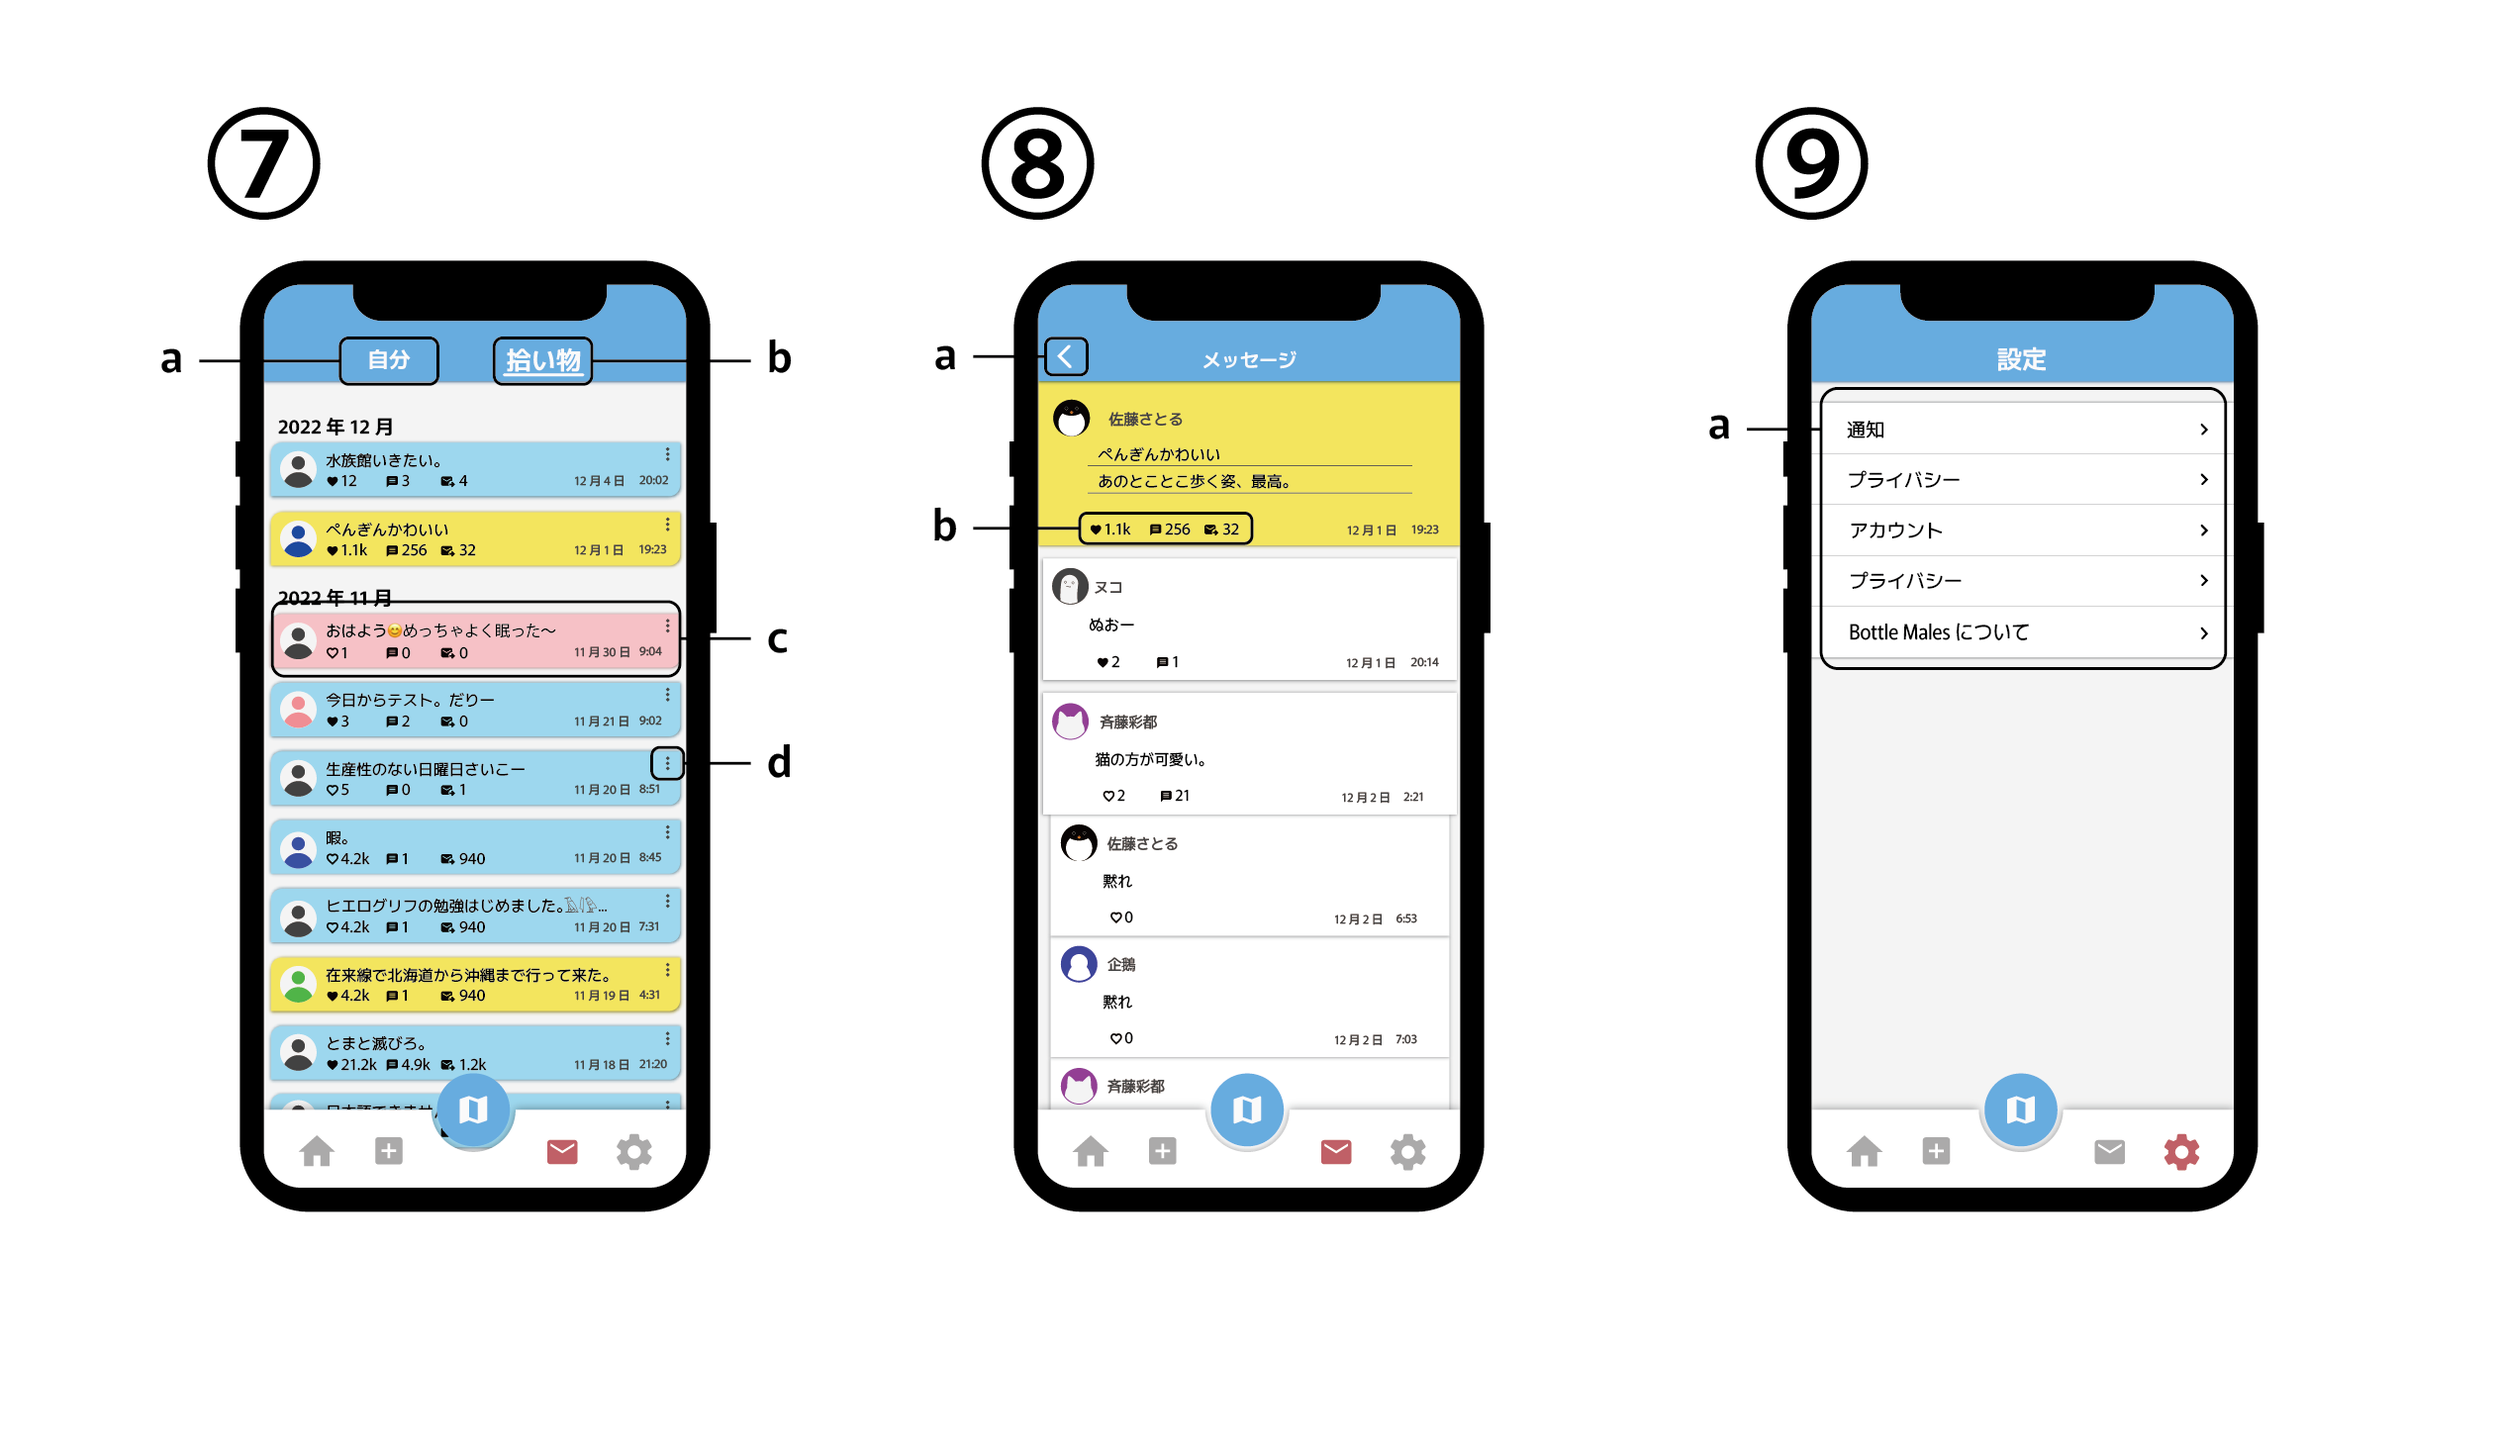
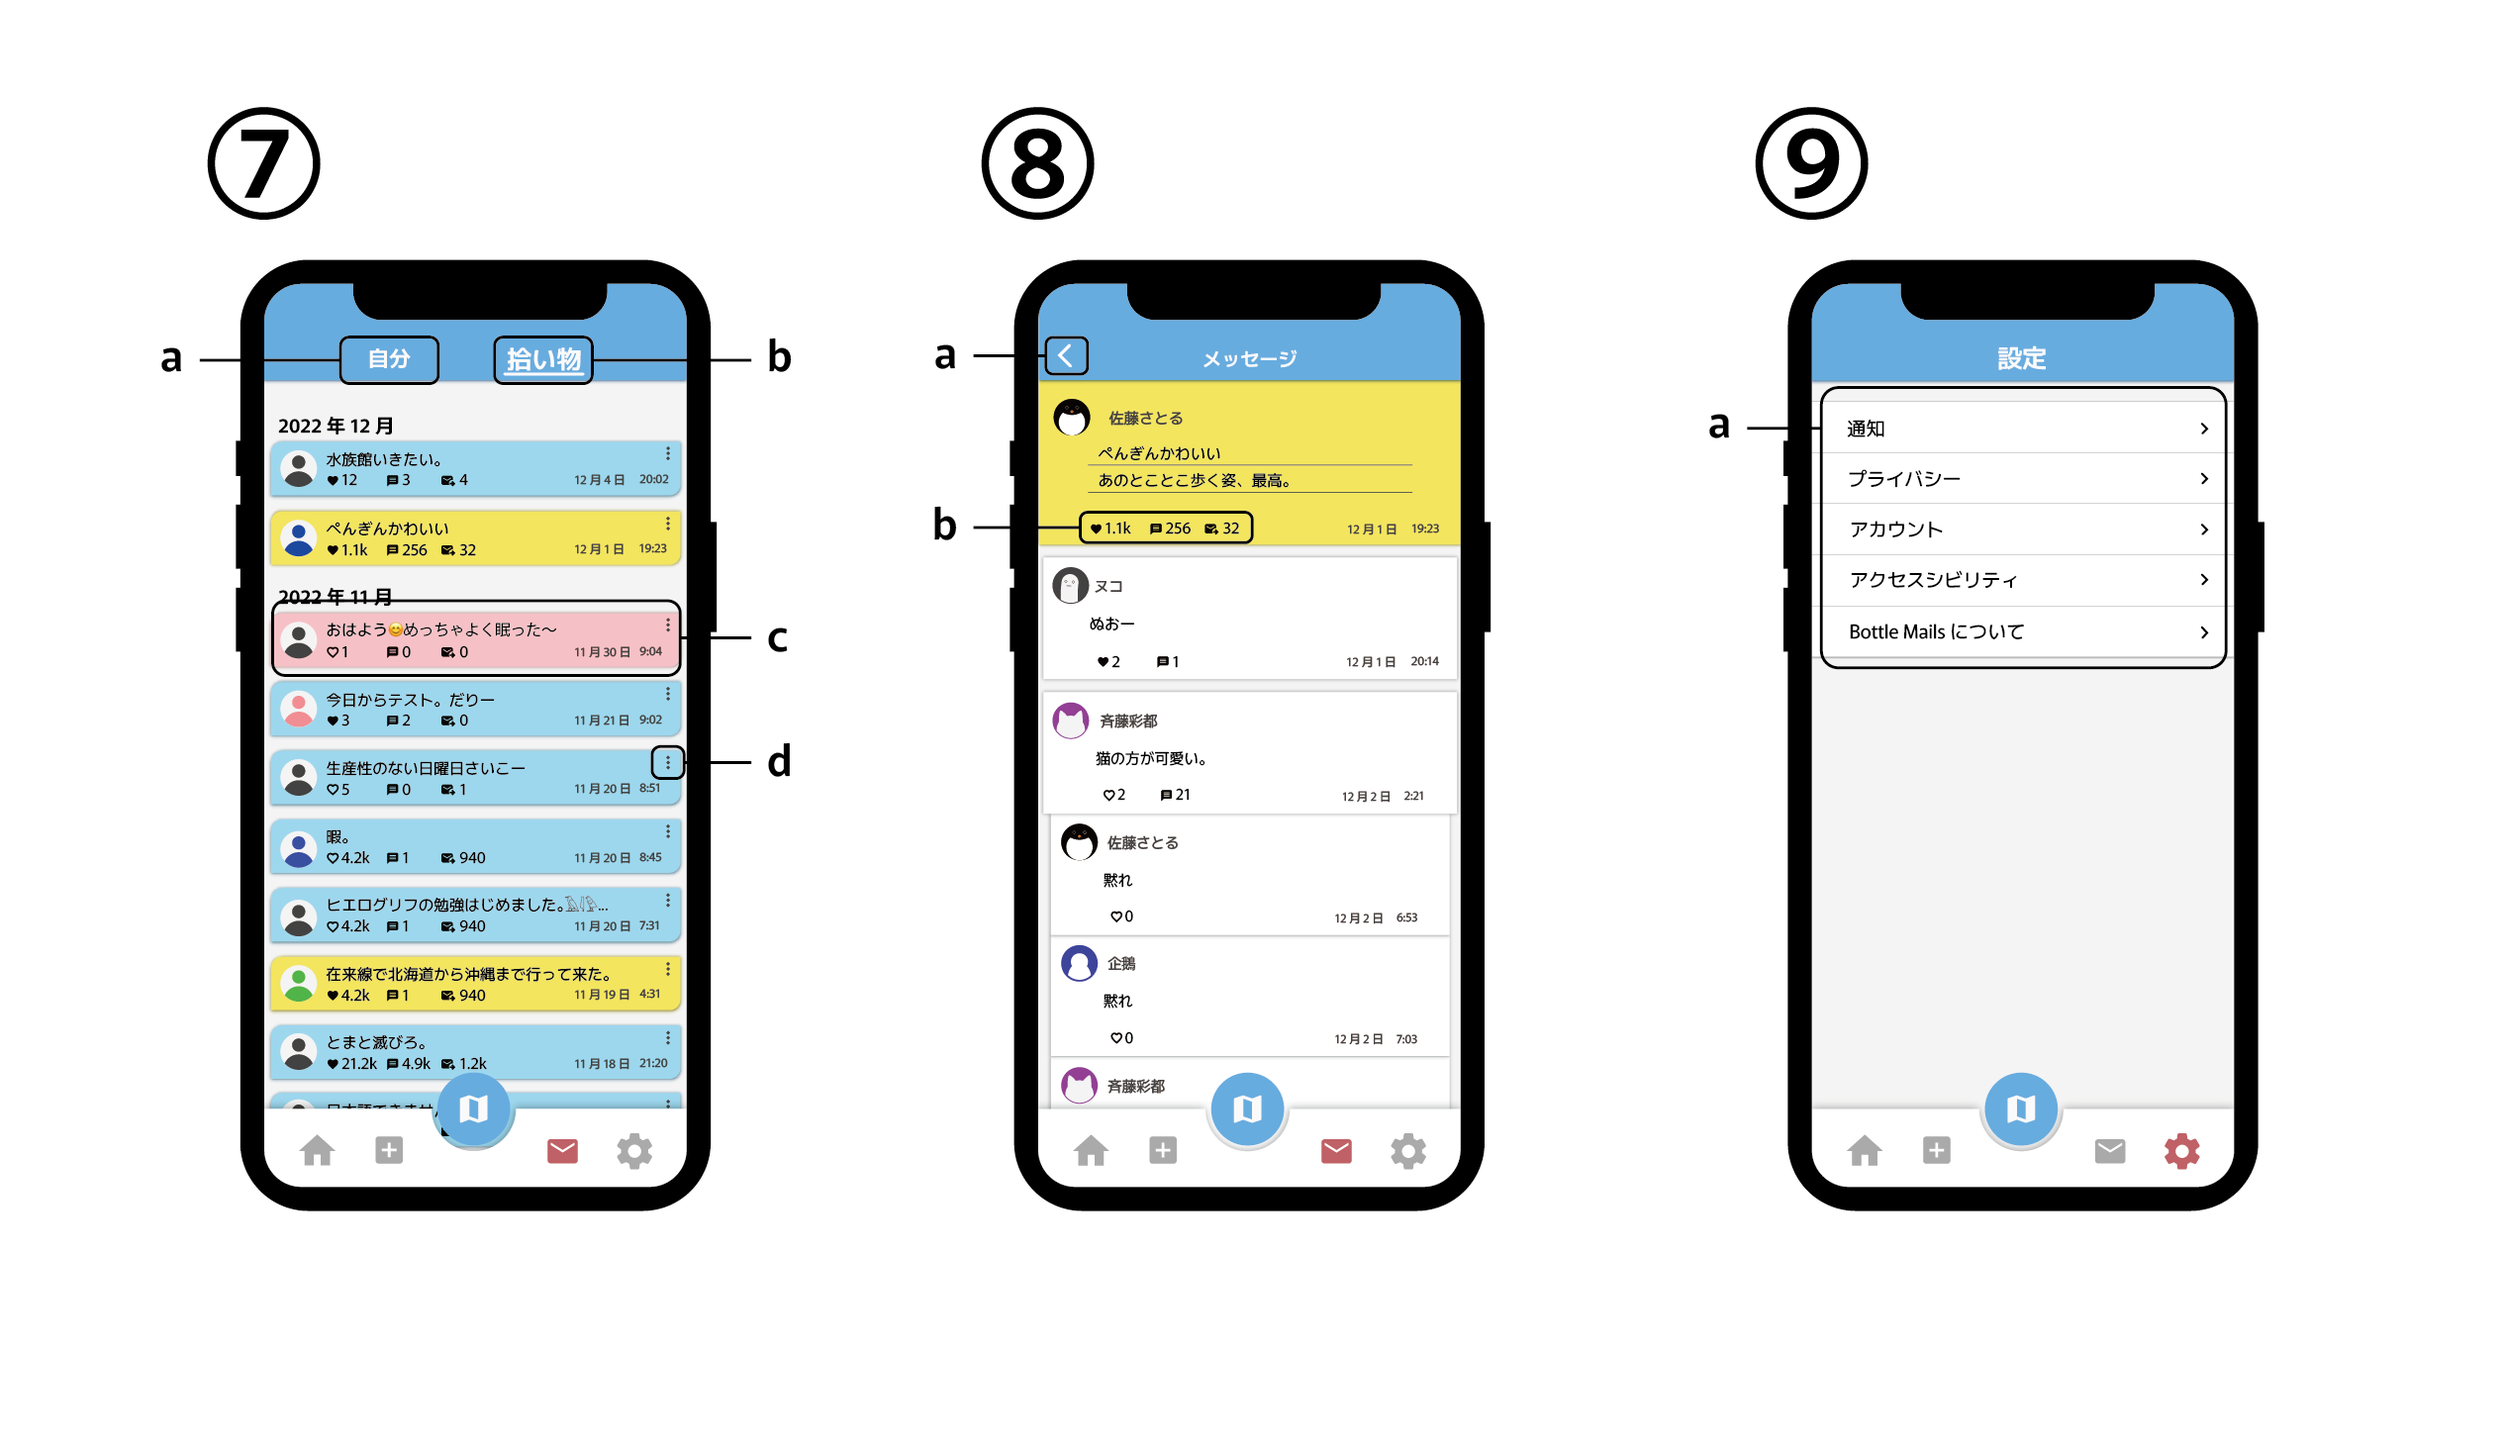
:pencil: 仕様書 設定項目 追加

diff --git a/docment/specification.md b/docment/specification.md
@@ -50,6 +50,22 @@
     a. 項目リスト
 
 
+## 設定項目
+- 通知
+  - 通知設定
+    - いいね
+    - コメント
+- プライバシー
+  - ブロックしたユーザー
+  - ミュートワード
+- アカウント
+  - ログインアカウント
+  - ログアウト
+- BottleMails について
+  - 利用規約
+  - プライバシーポリシー
+
+
 ## ボトルアイコン
 ボトルアイコンは複数種類ある  
 色・デザインだけでなく、機能も異なる
